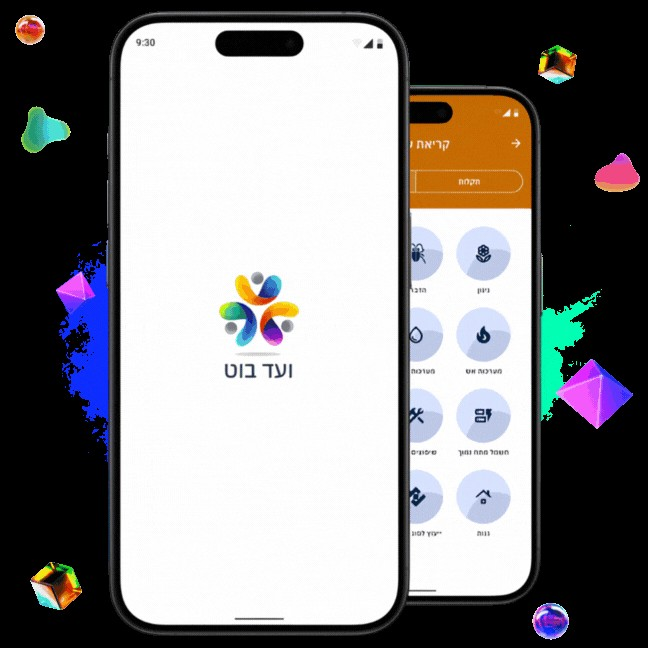
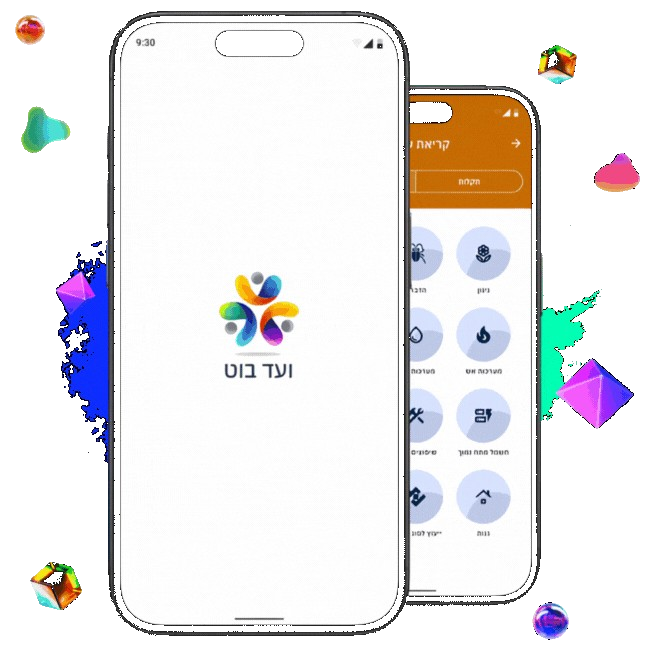
Update app and bot hero images

diff --git a/style.css b/style.css
@@ -1587,13 +1587,11 @@ p {
 .vb-phone-shot {
     max-width: 280px;
     width: 100%;
-    border-radius: 28px;
-    box-shadow: 0 28px 56px rgba(0, 0, 0, 0.35);
+    background: transparent;
 }
 
 .vb-hero-shot {
-    max-width: 420px;
-    border-radius: 24px;
+    max-width: 440px;
 }
 
 .vb-phone-shot-sm {
@@ -1631,11 +1629,10 @@ p {
 }
 
 .vb-bit-phone {
-    max-width: 420px;
+    max-width: 440px;
     width: 100%;
     height: auto;
-    border-radius: 24px;
-    filter: drop-shadow(0 28px 48px rgba(15, 23, 42, 0.18));
+    background: transparent;
 }
 
 .vb-bit-copy .section-badge,
@@ -1741,7 +1738,7 @@ p {
 .vb-bit-phones img {
     max-width: 200px;
     width: 100%;
-    filter: drop-shadow(0 16px 32px rgba(15, 23, 42, 0.12));
+    background: transparent;
 }
 
 .vb-split {